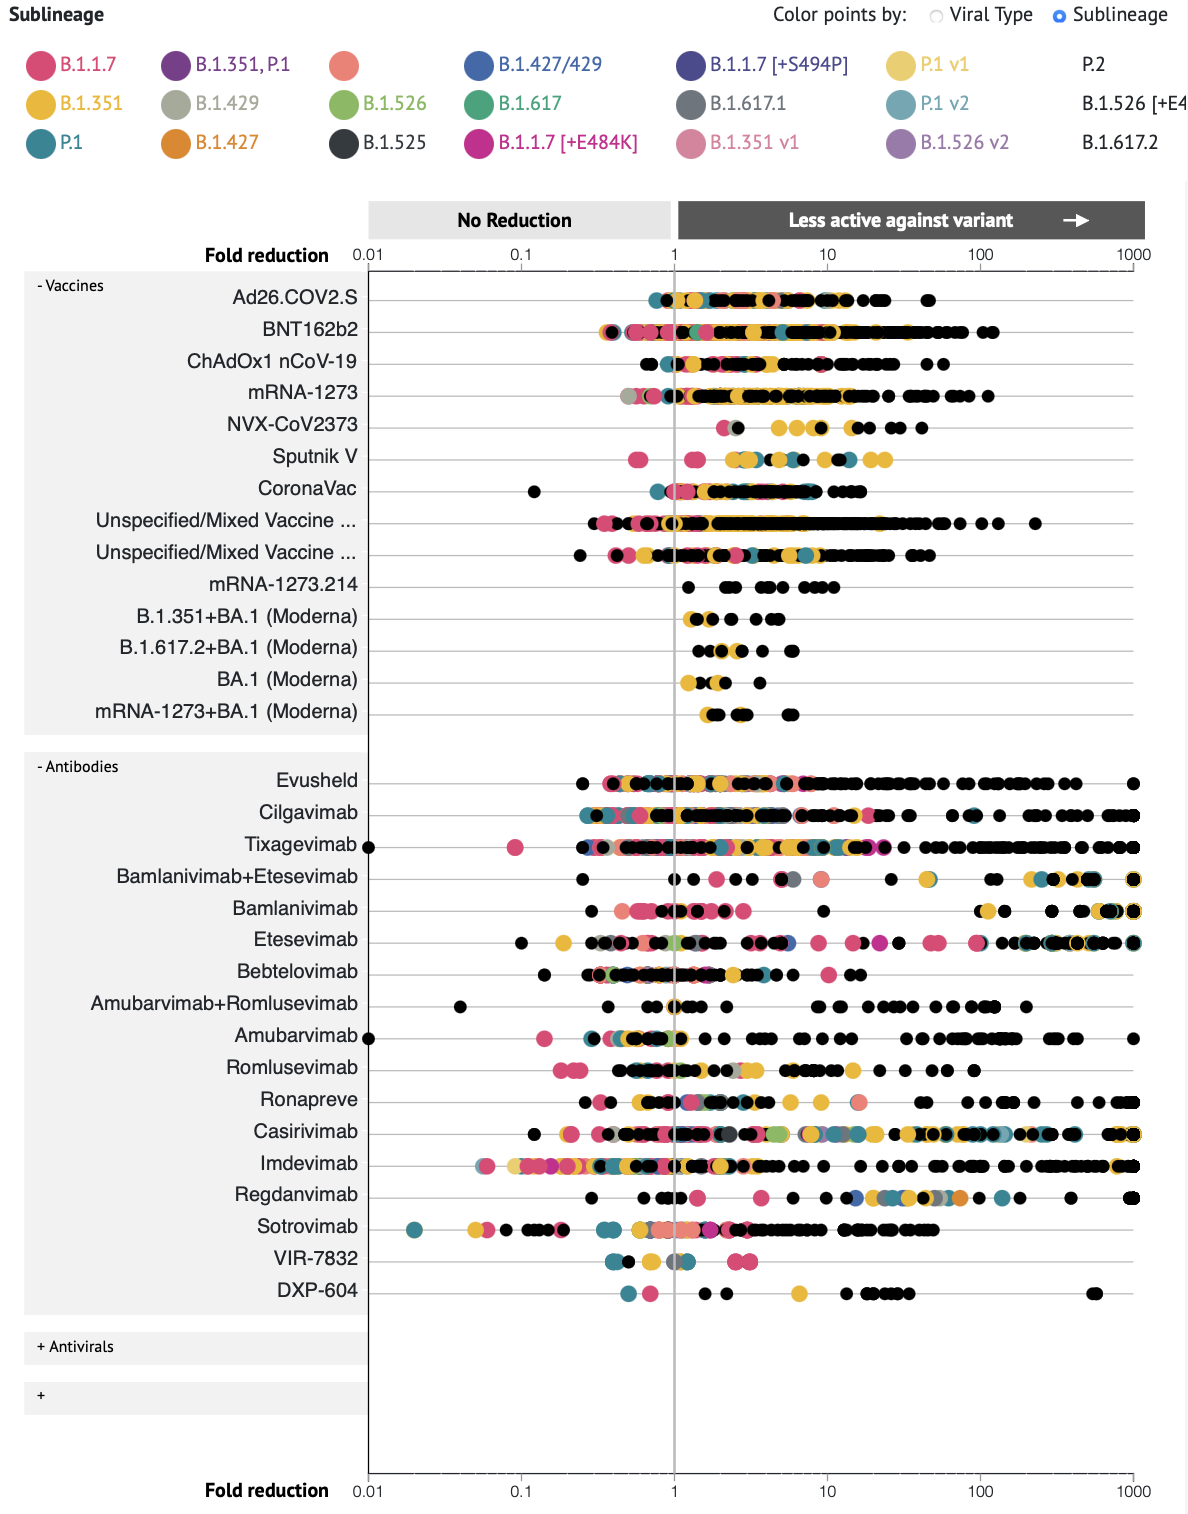
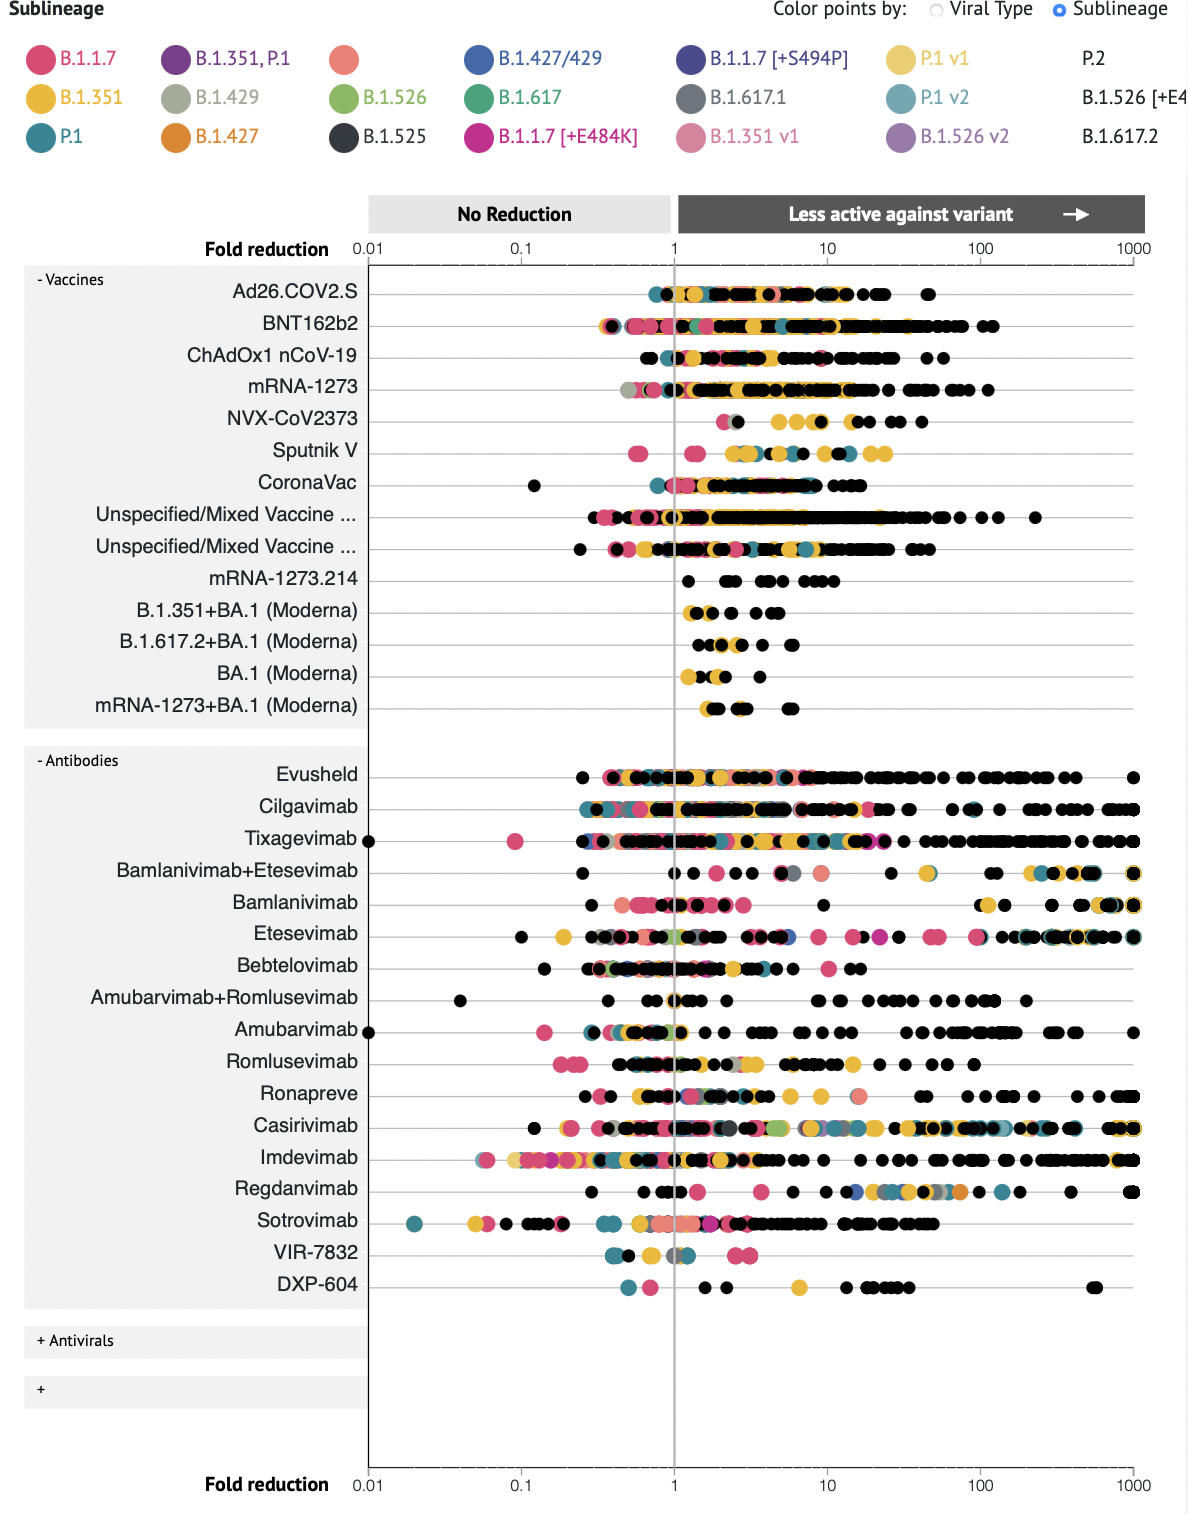
week 30 obrazek 2 rev

diff --git a/input/mtomkova/popis-variant.html b/input/mtomkova/popis-variant.html
@@ -74,7 +74,7 @@ kde vedou k silnější vazbě na lidský ACE2 receptor a současně ke snížen
             <i>Vizualizace možných reakcí varianty Omicron a jejich podvariant na různá terapeutika (vakcinace, protilátky) ve srovnání s referenčními kmeny. Převzato z&nbsp;<a href="https://opendata.ncats.nih.gov/variant/activity">opendata.ncats.nih.gov</a>.</i>
         </div>
 </div>
-<span style="display:block; height: 15px;"></span> 
+<span style="display:block; height: 30px;"></span> 
 <div>
 Zobrazené hodnoty násobku změny představují data shromážděná z publikovaných in vitro virových neutralizačních testů porovnávajících varianty s referenčním kmenem. Data bez nahlášených nebo vypočítatelných změn nejsou ve vizualizacích zahrnuta. Uvedené grafiky jsou pouze ilustrační, zobrazená data byla generována z různým typů testů a za různým podmínek - odlišné výzkumné laboratoře, jiné referenční kmeny, použití odlišného testovacího materiálu a jiné zpracování. Údaje mohou pocházet ze zpráv a&nbsp;publikací, které ještě nebyly recenzovány (převzato ze&nbsp;<a href="https://opendata.ncats.nih.gov/variant/activity">opendata.ncats.nih.gov</a>).  
 </div>
